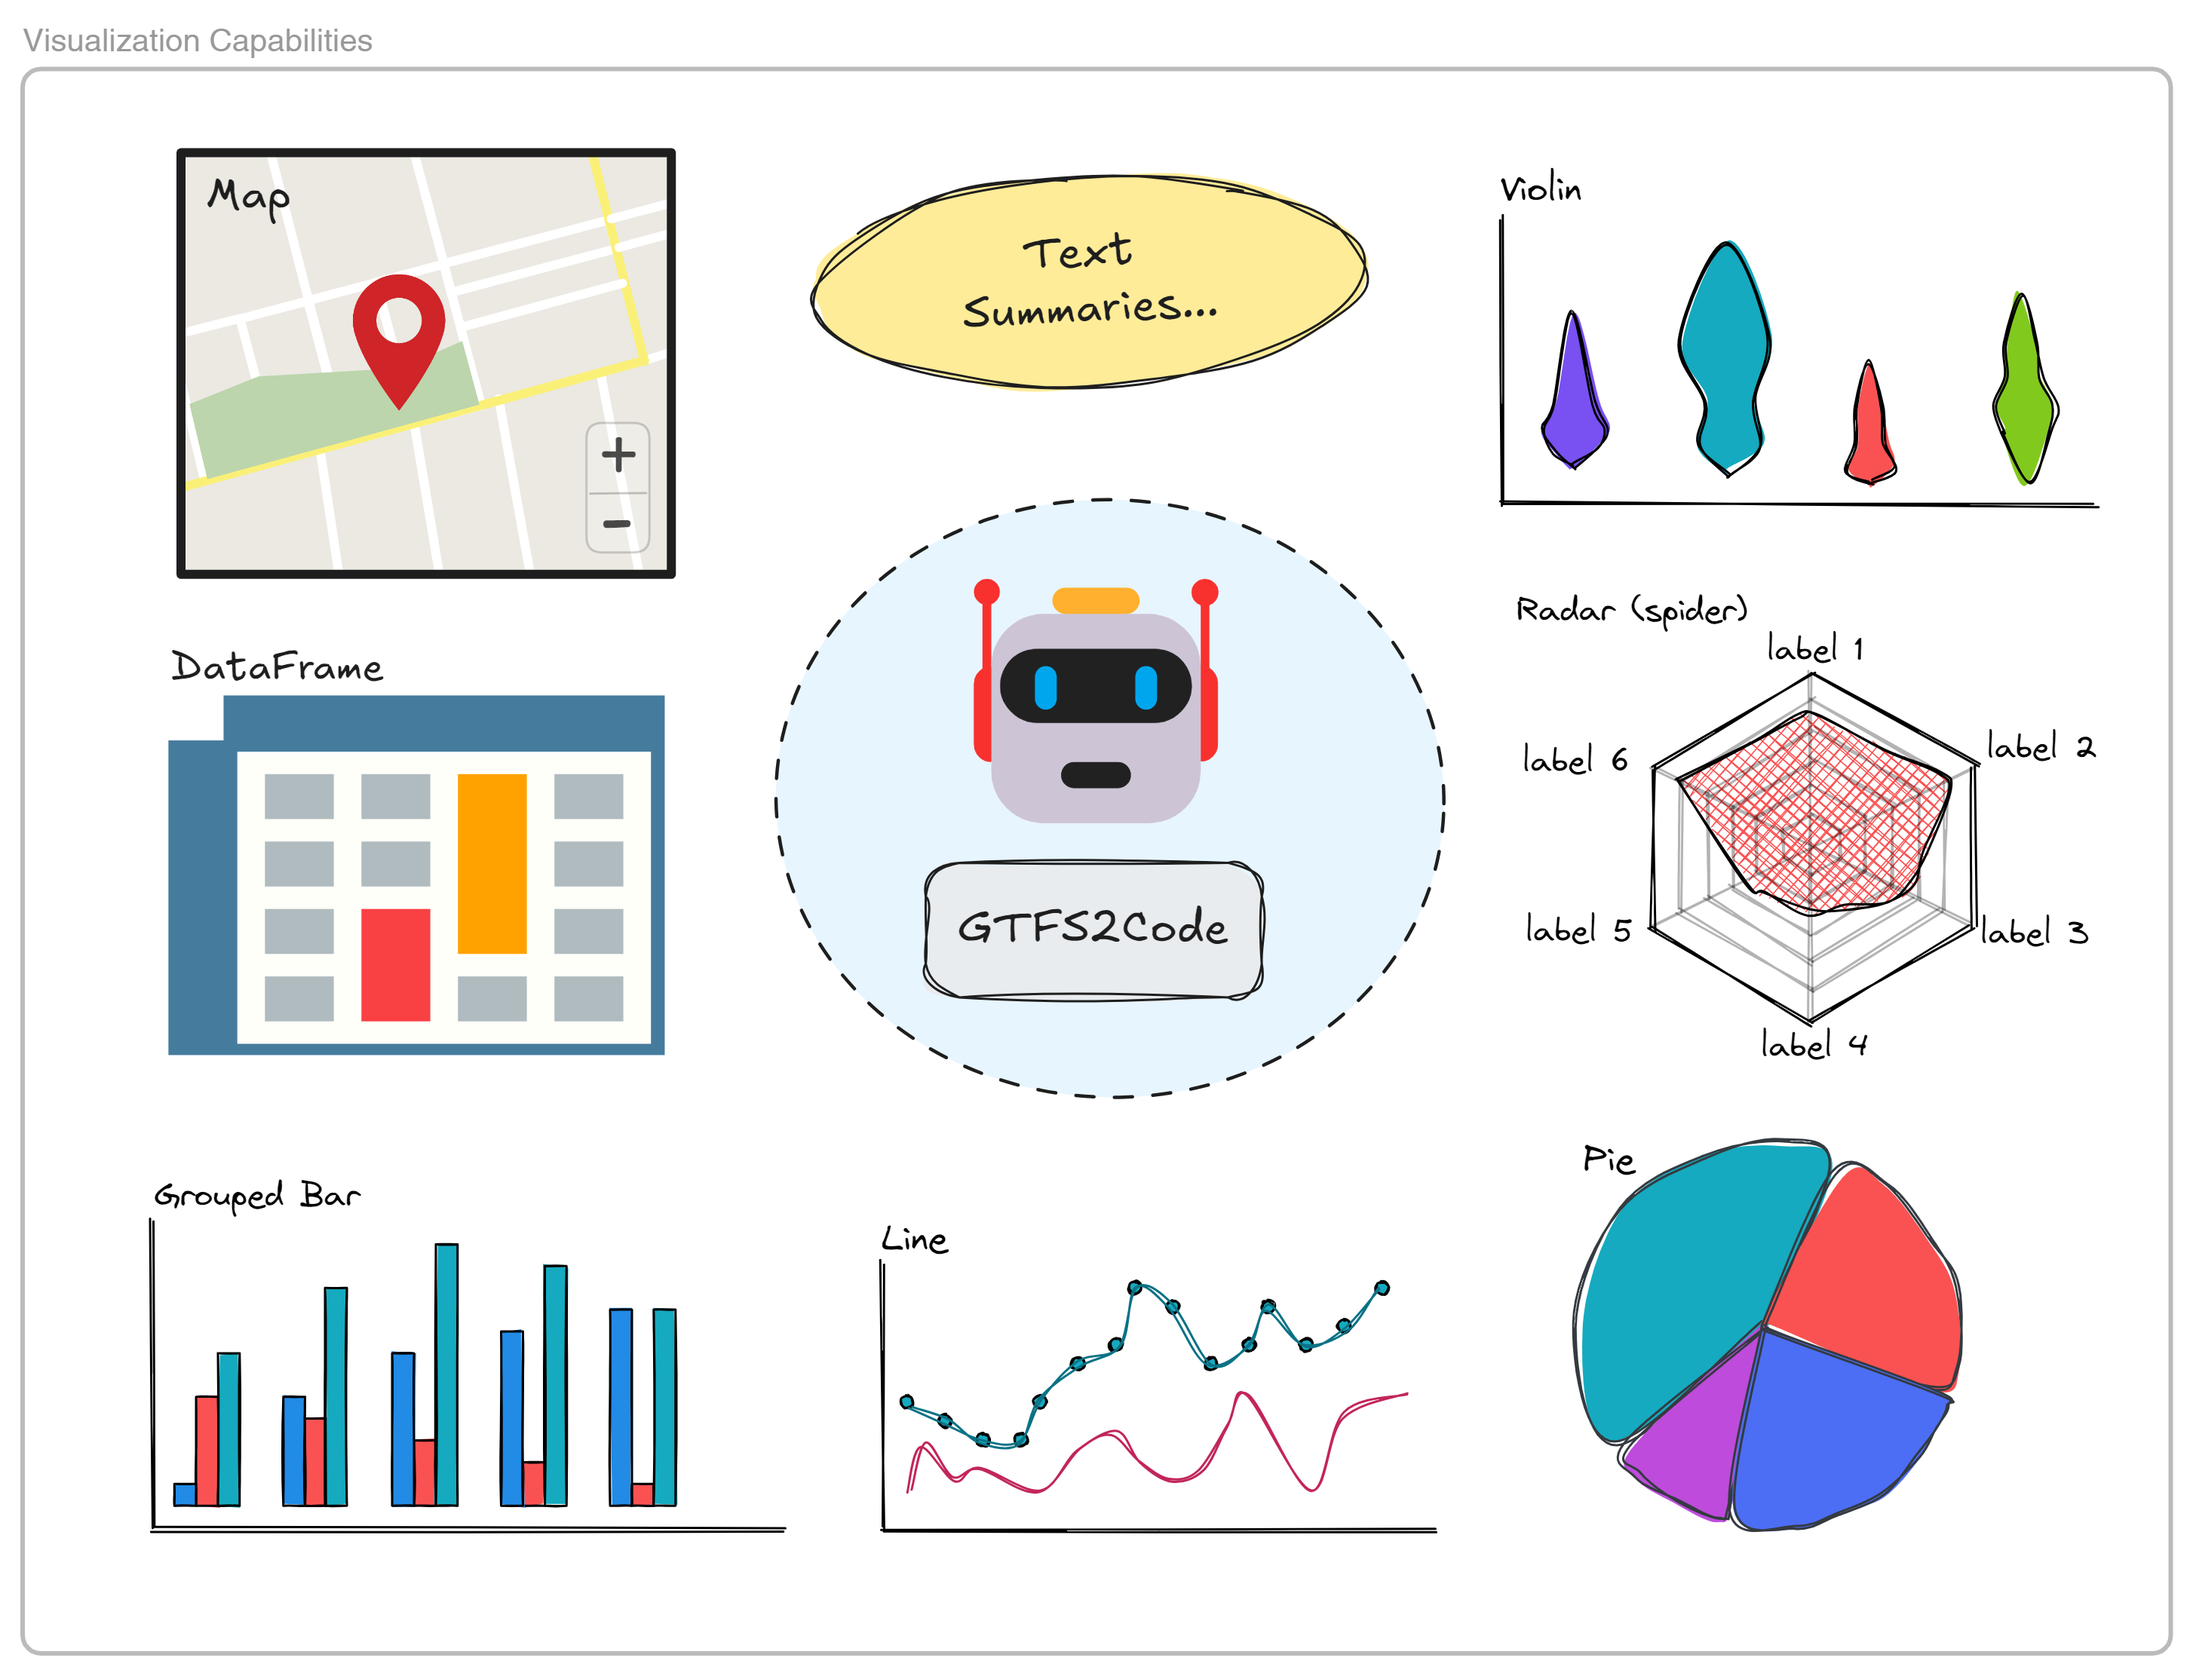
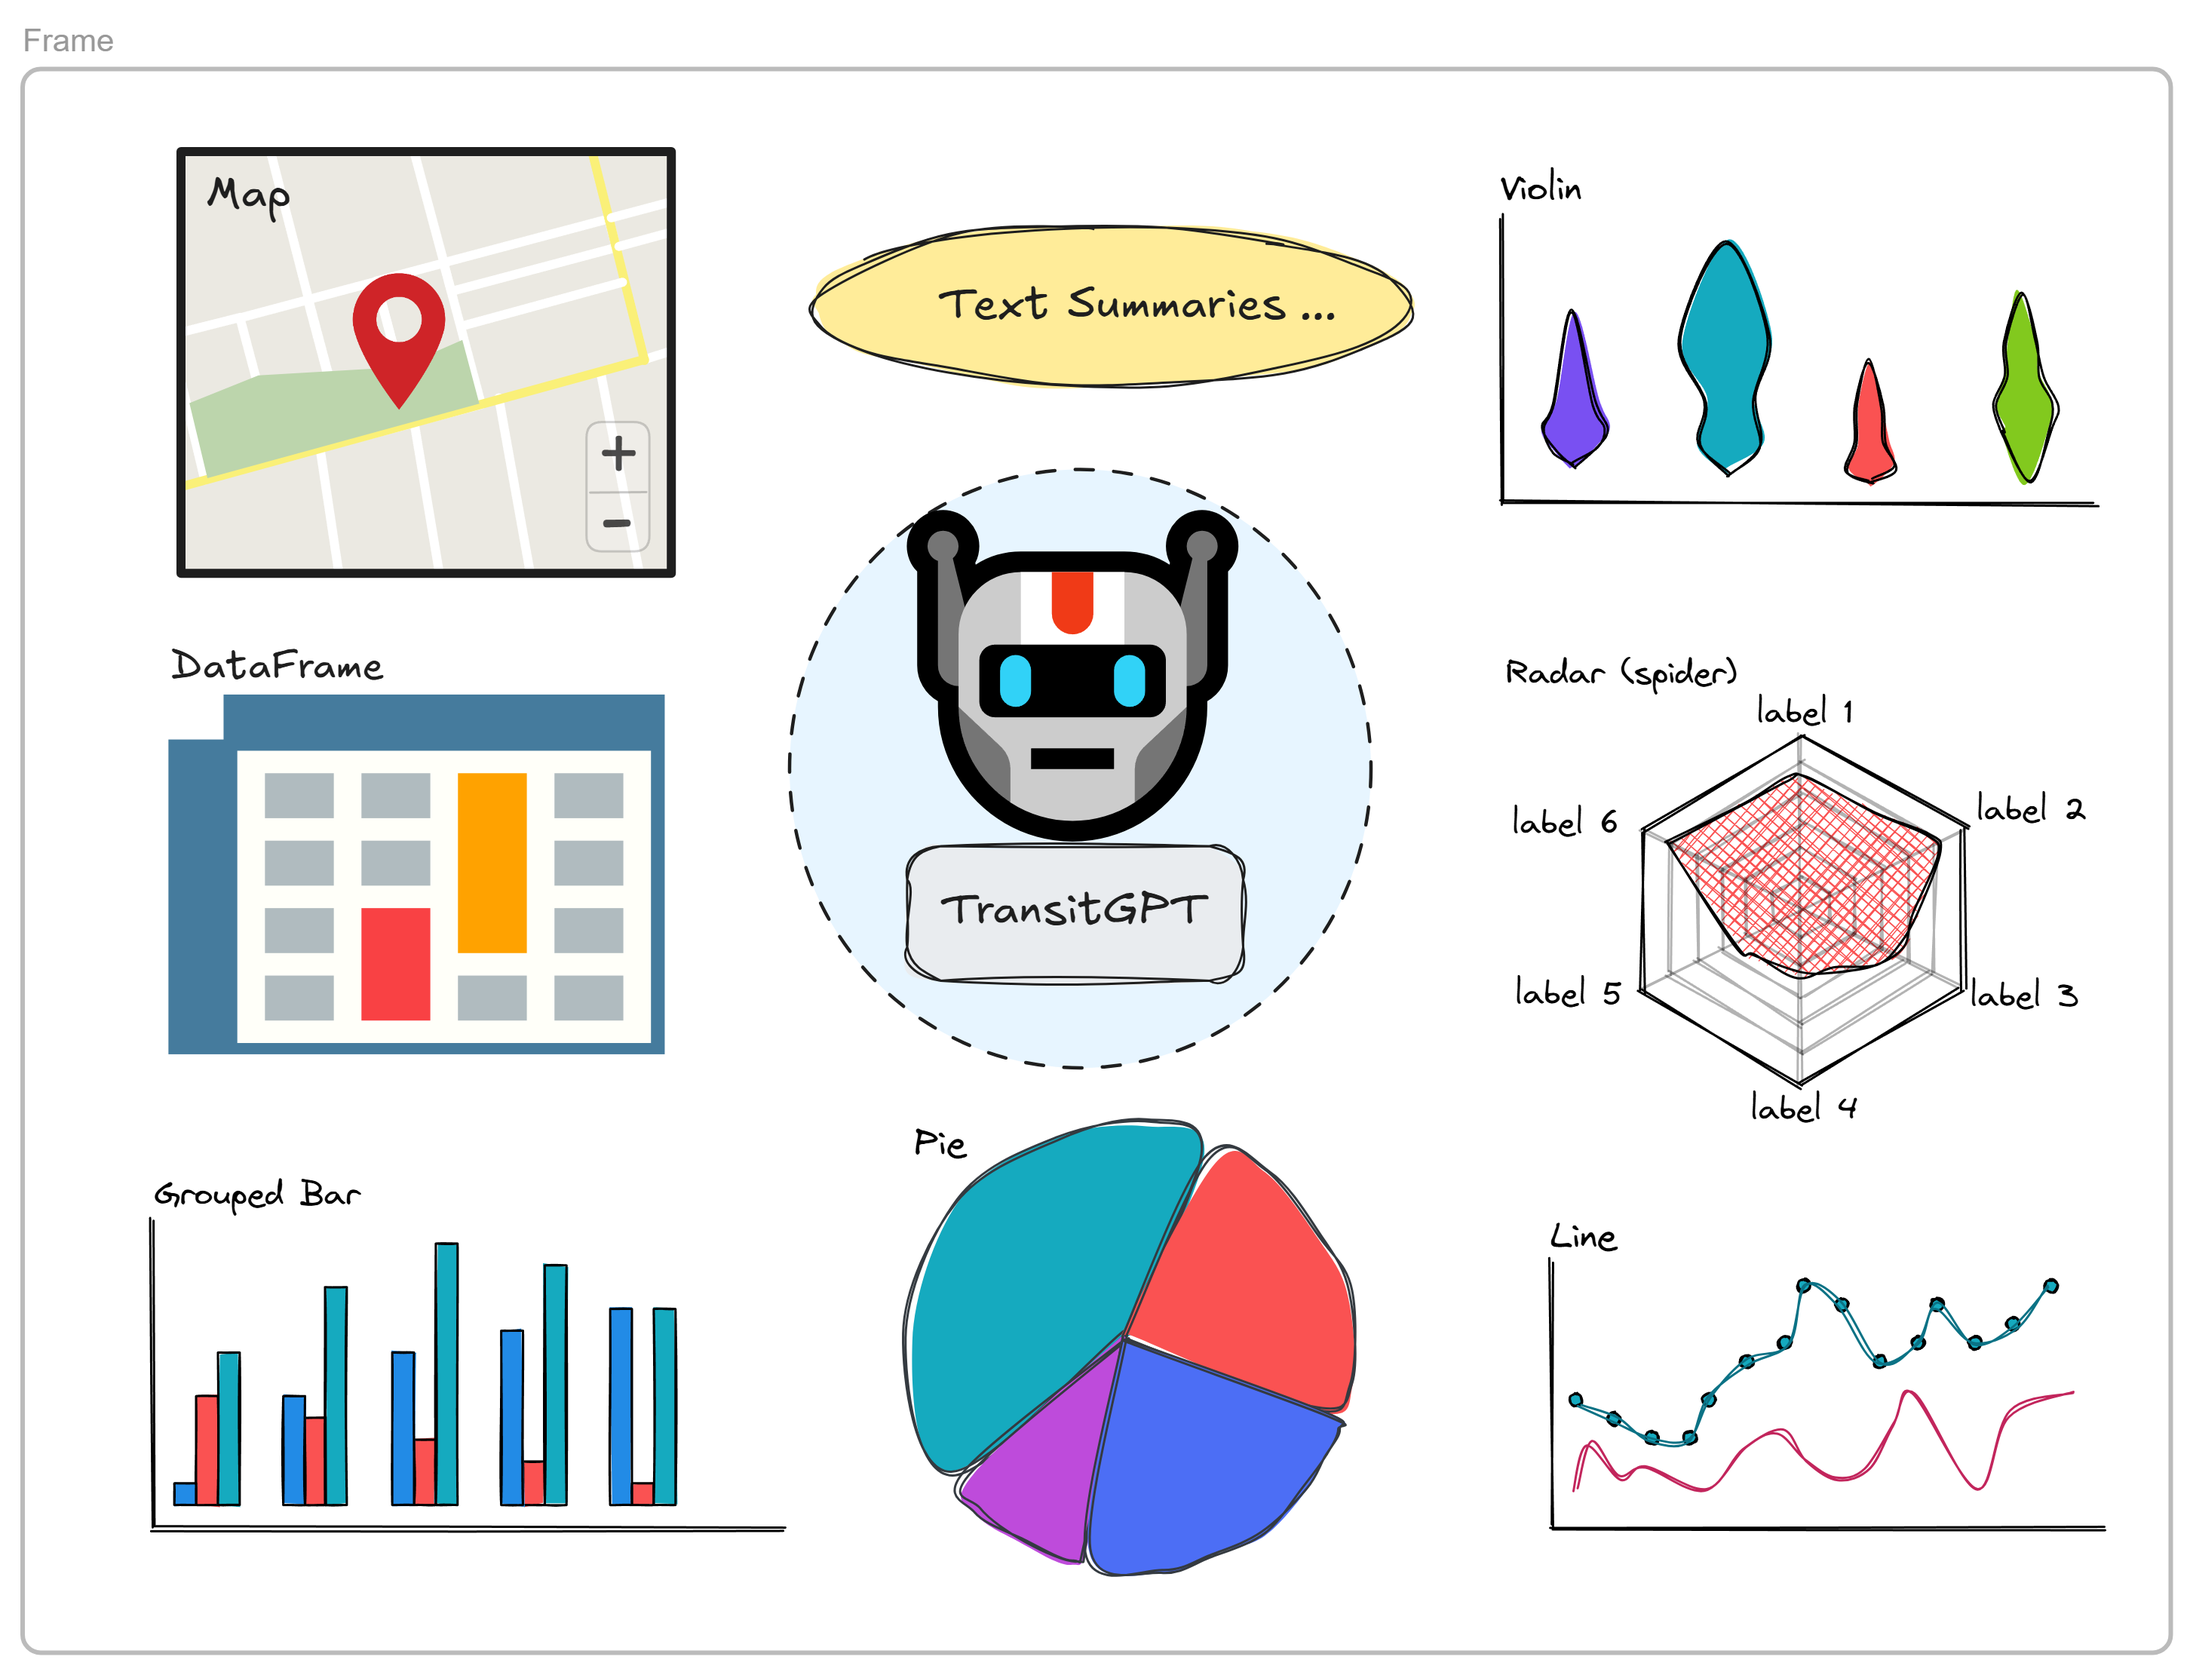
update images

diff --git a/README.md b/README.md
@@ -10,7 +10,7 @@ TransitGPT is a specialized chatbot that helps transit enthusiasts retrieve tran
 ## Architecture Overview
 
 <p align="center">
-  <img src="images/GTFS2CODE_arch_mod.png" alt="GTFS2CODE Architecture" style="max-width: 60%; width : 600px">
+  <img src="images/transitGPTArch.png" alt="GTFS2CODE Architecture" style="max-width: 60%; width : 600px">
 </p>
 
 This diagram illustrates the high-level architecture of the GTFS2CODE system, showing how different components interact.
